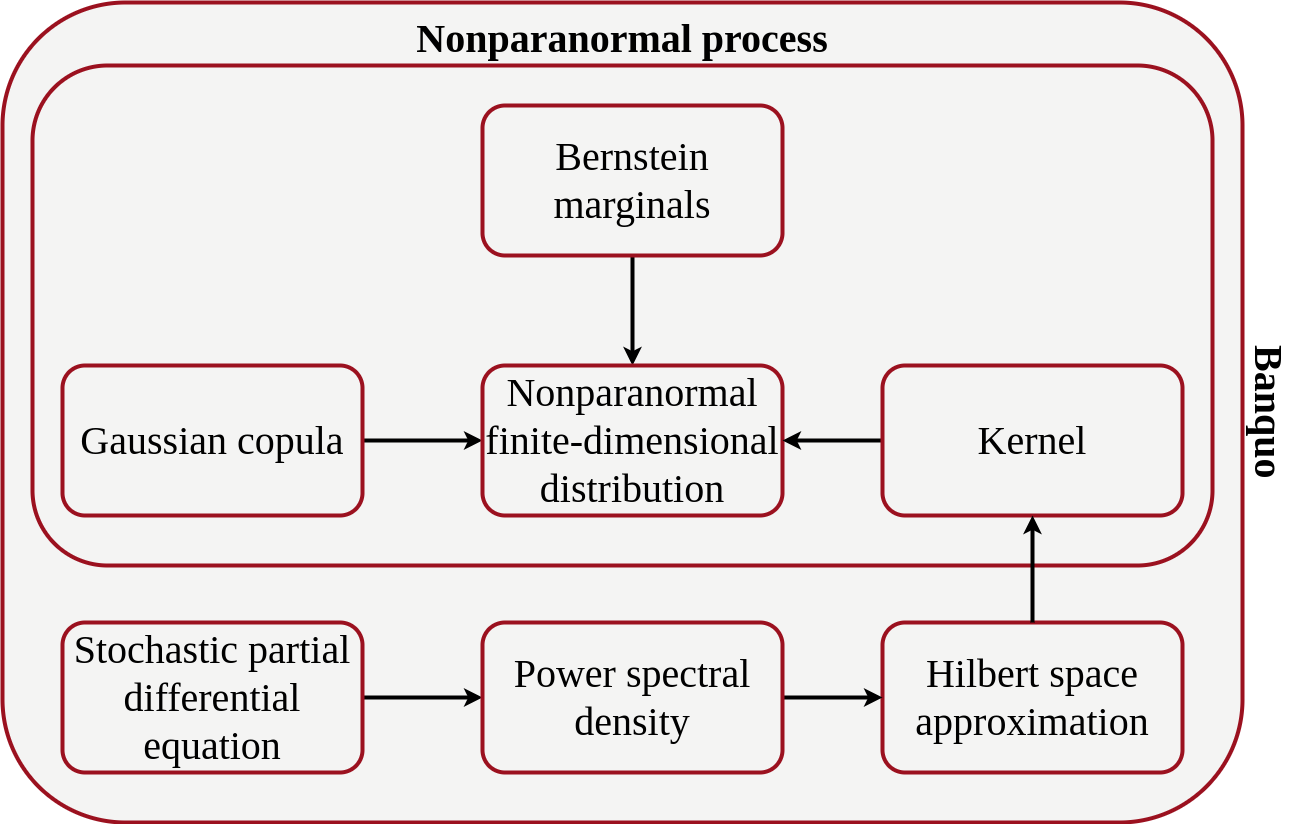
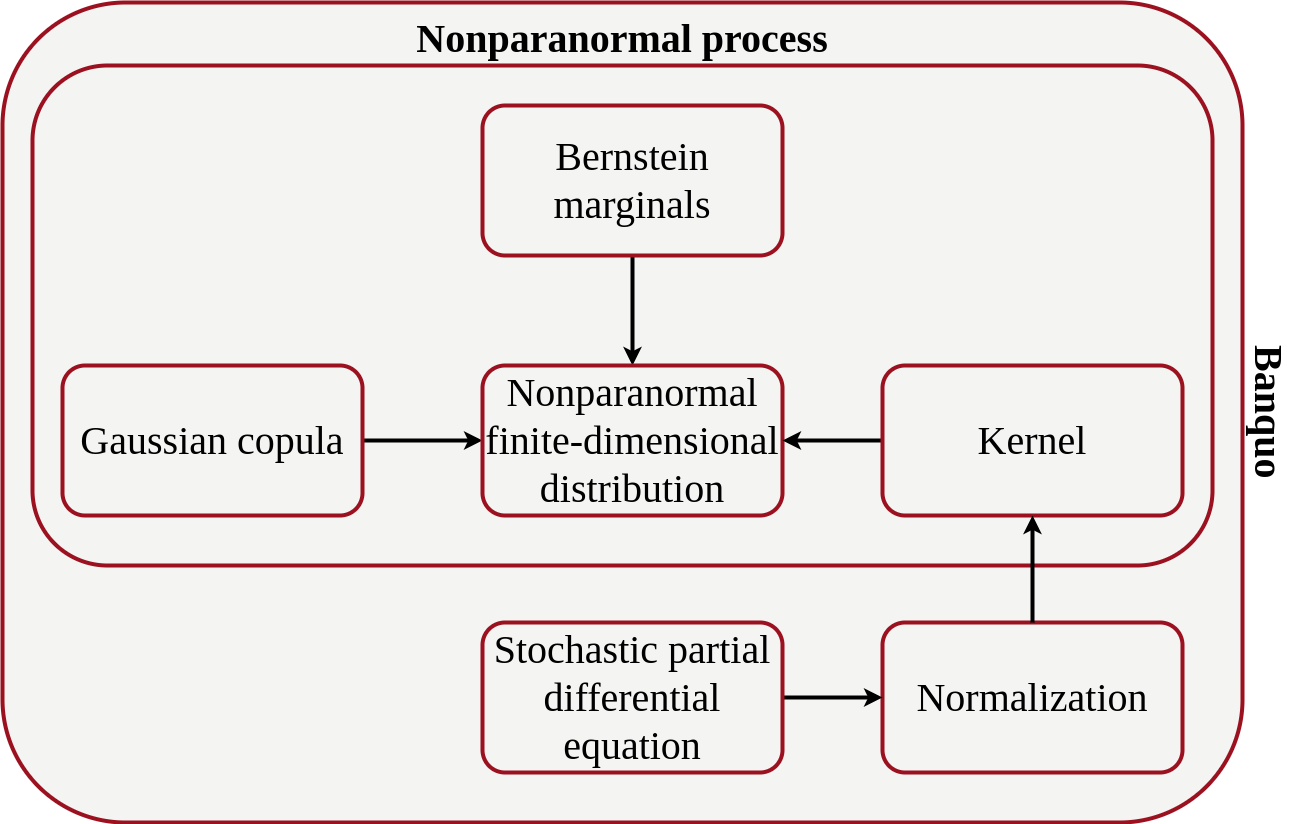
docs: remove hilbert space approximation

diff --git a/README.md b/README.md
@@ -30,7 +30,7 @@ a Python package for building Bayesian Nonparanormal models
 - Semiparametric Bernstein estimator for cumulative distribution function and
   probability density function
 - Nonparanormal model with Bernstein marginals
-- Hilbert space approximation for discrete stochastic heat equation kernel
+- Discrete stochastic heat equation correlation function
 
 See the Banquo architecture below:
 
